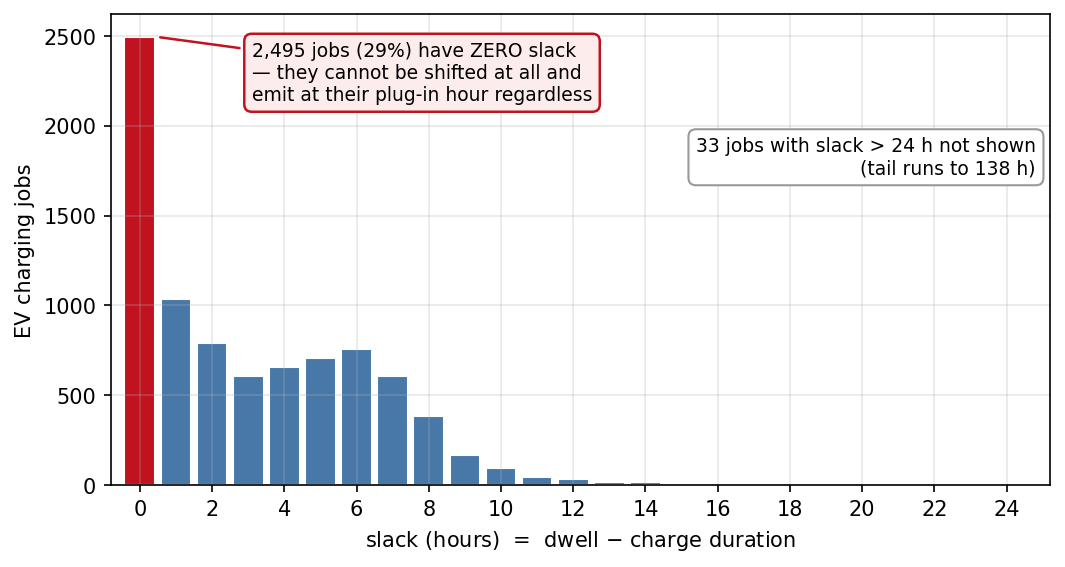
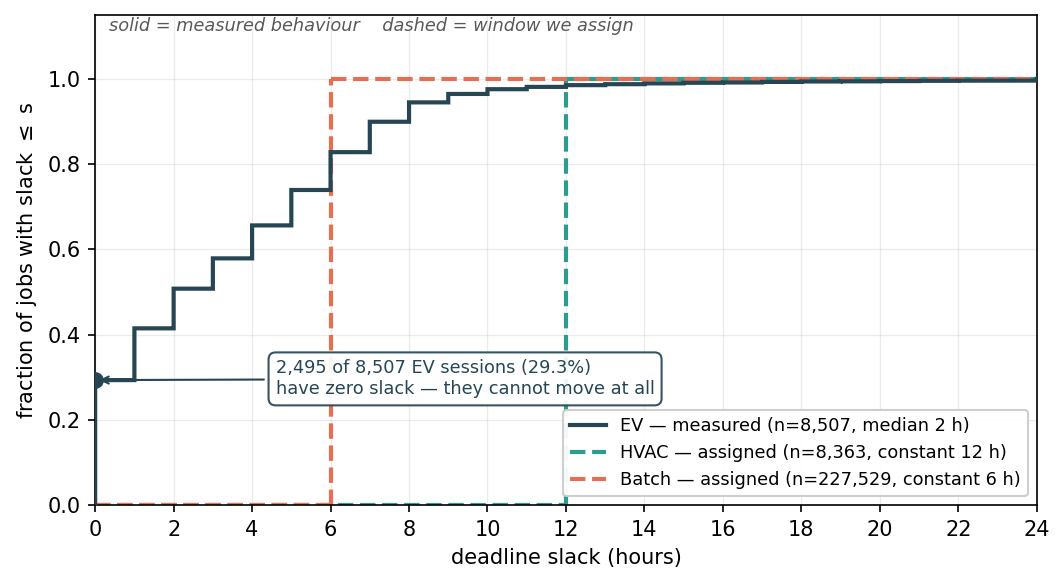
feat: three-load figures, saturation mechanism, window-restricted comparability

diff --git a/scripts/fig_savings_vs_capacity.py b/scripts/fig_savings_vs_capacity.py
@@ -1,0 +1,146 @@
+"""Generator for figures/04b_savings_vs_capacity.png -- capacity sweep, HVAC and batch,
+combined into a SINGLE panel.
+
+WHY ONE PANEL. The two arms were previously drawn side by side, which made them
+non-comparable: HVAC's budget axis spans 0.21-6.67 kW and batch's spans 127-1523 kW, a
+600x difference driven entirely by fleet size, not by behaviour. Both sweeps are
+parameterised identically as M = k x median hourly AGGREGATE load, so plotting against
+the dimensionless k puts them on one axis and makes the substantive comparison visible:
+batch reaches its uncapped ceiling exactly at k=4, while HVAC is still climbing at
+k=15.8 (its peak-load cap). That contrast is the point of the figure and the two-panel
+layout concealed it.
+
+ENCODING. Colour = load class (HVAC dark, batch orange). Linestyle/marker = solver
+(solid+filled marker = greedy, dashed+open circle = exact MILP). The shortfall band is
+the HVAC greedy-to-optimum gap. This differs from the two-panel version, where colour
+carried the solver; with four series on one axes colour has to carry the arm.
+
+CAP BASIS. Budgets are k x the median hourly AGGREGATE load, for both arms. For HVAC
+this is identical to the old k x median JOB power basis, because the adapter emits
+exactly one block per hour (1.00 jobs/hour, median aggregate == median job power ==
+0.4230 kW); HVAC's published 7.28 / 8.29 / 1.01 pp numbers at k=3 are verified
+unchanged. For batch the two differ by 635x: median job power is 0.400 kW but the
+median aggregate is 253.8 kW, so a job-power basis would make every capped point
+measure forced fallback. The fleet runs ~664 concurrent jobs per active hour (mean;
+median 697) across 1,642 active hours of the year. The 635x is the ratio of the two
+cap bases, not the concurrency; the two are close but not equal because job powers
+vary (26 distinct values, 0.004-3.2 kW).
+
+BATCH HAS NO MILP ARM. schedule_optimal builds dense constraint matrices and is
+OOM-killed (exit 137) above ~32,000 jobs on this machine; batch is 227,529 jobs.
+Greedy only for that arm, stated on the panel.
+"""
+from __future__ import annotations
+
+import sys
+from pathlib import Path
+
+ROOT = Path(__file__).resolve().parents[1]
+sys.path.insert(0, str(ROOT))
+sys.path.insert(0, str(ROOT / "notebooks"))
+
+import matplotlib.pyplot as plt
+import numpy as np
+import pandas as pd
+
+import nb_utils as U
+from carbon_sim import WORKING_CAP_K
+
+HVAC_UNCAPPED = 12.6986  # uncapped greedy == exact optimum (see fig_savings_vs_flex.py)
+
+C_HVAC = "#264653"   # dark teal  -- HVAC heat pump
+C_BATCH = "#e76f51"  # orange     -- batch GPU
+
+
+def main() -> None:
+    hv = pd.read_csv(ROOT / "results/capacity_sweep.csv")
+    ba = pd.read_csv(ROOT / "results/capacity_sweep_batch.csv")
+
+    # --- put both arms on the shared dimensionless budget axis k = M / median aggregate ---
+    hv_med = float(hv.loc[hv["k"] == 1.0, "M_kW"].iloc[0])          # 0.4230 kW
+    hv = hv.copy()
+    hv["k_eff"] = hv["M_kW"].to_numpy(float) / hv_med               # 'peak' row -> k = 15.76
+    hk = hv["k_eff"].to_numpy(float)
+    gy = hv["greedy_pct"].to_numpy(float)
+    oy = hv["optimal_pct"].to_numpy(float)
+
+    ba_k = ba[ba["label"].str.contains("med")].copy()
+    bk = ba_k["k"].to_numpy(float)
+    gb = ba_k["greedy_pct"].to_numpy(float)
+    ba_unc = float(ba.loc[ba["label"] == "uncapped", "greedy_pct"].iloc[0])
+
+    fig, ax = plt.subplots(figsize=(7.6, 5.4))
+
+    # --- degenerate region: cap at or below the median aggregate load (k <= 1) ---
+    ax.axvspan(hk.min() * 0.86, 1.0, color="0.85", alpha=0.55, zorder=0,
+               label=r"degenerate (cap $\leq$ median aggregate)")
+
+    # --- HVAC: greedy, exact MILP, and the shortfall between them ---
+    ax.fill_between(hk, gy, oy, color=C_HVAC, alpha=0.16, zorder=1,
+                    label="HVAC greedy shortfall")
+    ax.plot(hk, gy, "s-", color=C_HVAC, lw=1.8, ms=6, zorder=4,
+            label="HVAC heat pump, greedy (n=8,363)")
+    ax.plot(hk, oy, "o--", color=C_HVAC, lw=1.8, ms=6, zorder=4,
+            mfc="white", mew=1.5, label="HVAC heat pump, exact MILP")
+    ax.axhline(HVAC_UNCAPPED, ls=":", color=C_HVAC, lw=1.5, alpha=0.85, zorder=2,
+               label=f"HVAC uncapped ceiling ({HVAC_UNCAPPED:.2f}%)")
+
+    # --- batch: greedy only ---
+    ax.plot(bk, gb, "^-", color=C_BATCH, lw=1.8, ms=7, zorder=4,
+            label="Batch GPU, greedy only (n=227,529; MILP OOM-infeasible)")
+    ax.axhline(ba_unc, ls=":", color=C_BATCH, lw=1.5, alpha=0.85, zorder=2,
+               label=f"Batch uncapped ceiling ({ba_unc:.2f}%)")
+
+    # --- working cap ---
+    w = hv[hv["k"] == WORKING_CAP_K].iloc[0]
+    ax.axvline(WORKING_CAP_K, ls="--", color="0.35", lw=1.1, zorder=2)
+    ax.annotate(f"working cap $k$={WORKING_CAP_K:g} ({float(w['M_kW']):.2f} kW for HVAC)\n"
+                f"greedy {float(w['greedy_pct']):.2f}% / opt {float(w['optimal_pct']):.2f}%"
+                f" / gap {float(w['gap_pp']):.2f} pp",
+                xy=(WORKING_CAP_K, float(w["optimal_pct"])), xytext=(3.5, 5.2),
+                fontsize=8.2, arrowprops=dict(arrowstyle="->", color="0.25", lw=1.0))
+
+    # --- the comparison the shared axis exists to make ---
+    # grey, straight, and shrunk clear of the line: an orange curved arrow here reads
+    # as a continuation of the batch series and implies a decline that is not in the data
+    ax.annotate("batch reaches its ceiling at $k$=4;\nHVAC has not at $k$=16",
+                xy=(4.3, ba_unc), xytext=(6.2, 1.15), fontsize=8.4, style="italic",
+                color="0.3", ha="left",
+                arrowprops=dict(arrowstyle="->", color="0.45", lw=1.0,
+                                shrinkA=2, shrinkB=6))
+
+    ticks = [0.5, 1, 2, 3, 4, 6, float(hv["k_eff"].max())]
+    ax.set_xscale("log")
+    ax.set_xticks(ticks)
+    ax.set_xticklabels(["0.5", "1", "2", "3", "4", "6", "15.8\n(HVAC peak)"], fontsize=8.4)
+    ax.minorticks_off()
+    ax.set_xlabel(r"per-hour budget $M$, as a multiple $k$ of each load's median hourly "
+                  r"aggregate draw (log)")
+    ax.set_ylabel("carbon saved (%)")
+    ax.set_ylim(0, HVAC_UNCAPPED * 1.16)
+    ax.grid(alpha=0.22, lw=0.6)
+    ax.set_axisbelow(True)
+    ax.legend(loc="upper center", bbox_to_anchor=(0.5, -0.20), fontsize=8.0,
+              framealpha=0.95, ncol=2, columnspacing=1.6, handlelength=2.4,
+              borderaxespad=0.0)
+
+    fig.tight_layout()
+    U.savefig(fig, "04b_savings_vs_capacity.png")
+
+    print("[04b] combined panel, shared axis k = M / median hourly aggregate load")
+    print("  HVAC (k x median aggregate == k x median job power for this arm):")
+    for _, r in hv.iterrows():
+        print(f"    {r['label']:9} k={r['k_eff']:6.2f}  M={r['M_kW']:8.4f} kW  "
+              f"greedy={r['greedy_pct']:7.4f}%  opt={r['optimal_pct']:7.4f}%  "
+              f"gap={r['gap_pp']:6.4f} pp{'   [degenerate]' if r['degenerate'] else ''}")
+    print(f"    uncapped ceiling = {HVAC_UNCAPPED:.4f}%")
+    print("  batch (k x median aggregate = 253.83 kW), greedy only:")
+    for _, r in ba.iterrows():
+        k = "  n/a " if pd.isna(r["k"]) else f"{r['k']:5.2f}"
+        m = "   n/a  " if pd.isna(r["M_kW"]) else f"{r['M_kW']:8.2f}"
+        print(f"    {r['label']:9} k={k}  M={m} kW  greedy={r['greedy_pct']:7.4f}%  "
+              f"opt=n/a (OOM)")
+
+
+if __name__ == "__main__":
+    main()

diff --git a/scripts/window_restricted_hvac.py b/scripts/window_restricted_hvac.py
@@ -1,0 +1,124 @@
+"""Generator for results/window_restricted_hvac.csv -- the HVAC saving restricted to
+the batch trace's calendar window.
+
+Reproduces the like-for-like comparison Section 4.4 states: the heat-pump uncapped
+ceiling is 12.70% over the full year 2019 but 9.57% over the 69 days the Alibaba
+batch trace spans, so the batch arm's 3.21% ceiling and the heat pump's differ by
+about a factor of three rather than four.
+
+Run from anywhere:  python scripts/window_restricted_hvac.py
+Runtime ~2 min; the full-year k=3 MILP dominates at ~95 s.
+
+WHY THIS FILE EXISTS. Figure 7 (04b) plots the heat-pump and batch capacity sweeps
+on one shared axis, but the two loads do not cover the same calendar span: HVAC and
+EV run over all of 2019 while the Alibaba trace is anchored to 2019-07-07..09-13.
+A reader taking the ratio of the two ceilings straight off the figure would
+overstate it by about 25%, because summer is a low-savings season for the heat pump
+(Section 4.5). That correction is quoted in the paper, so it needs a generator.
+
+WINDOW IS DERIVED, NOT HARDCODED. The bounds come from the batch job set itself
+(min earliest_start to max end), so if the trace anchor in nb_utils.get_ai_jobs
+ever changes, this script follows it instead of silently reporting a stale window.
+
+UNCAPPED USES GREEDY. With M -> infinity the jobs do not interact and a greedy
+minimum-cost placement is provably the exact optimum (Section 3.3); the full-year
+control below reproduces the published 12.6986% on that basis. The capped rows do
+call the MILP, since that is where greedy and optimum diverge.
+
+DETERMINISM. Every column except the timing columns is deterministic.
+"""
+from __future__ import annotations
+
+import sys
+import time
+from pathlib import Path
+
+ROOT = Path(__file__).resolve().parents[1]
+sys.path.insert(0, str(ROOT))
+sys.path.insert(0, str(ROOT / "notebooks"))
+
+import numpy as np
+import pandas as pd
+
+import nb_utils as U
+from cals import schedule, schedule_optimal
+from carbon_sim import WORKING_CAP_K, median_active_kw
+from cuad.scheduler.jobs import duration_h
+
+FULL_YEAR_UNCAPPED = 12.6986  # published Section 4.4 figure, reproduced as a control
+
+
+def arm(label, jobs, run_hours, ci, cap_kw, want_milp):
+    """One (span, cap) cell: greedy always, exact MILP only where the cap binds."""
+    base = U.do_nothing_gco2(jobs, run_hours, ci)
+    t0 = time.time()
+    g = schedule(jobs, ci, capacity_kw=cap_kw, baseline_hours=run_hours)
+    t_greedy = time.time() - t0
+    greedy_pct = U.savings_pct(base, g["total_gco2"])
+
+    optimal_pct, gap, t_milp, status = float("nan"), float("nan"), float("nan"), None
+    if want_milp:
+        t0 = time.time()
+        o = schedule_optimal(jobs, ci, capacity_kw=cap_kw, baseline_hours=run_hours)
+        t_milp = time.time() - t0
+        optimal_pct = U.savings_pct(base, o["total_gco2"])
+        gap = optimal_pct - greedy_pct
+        status = o.get("status")
+    return {
+        "span": label, "n_jobs": len(jobs),
+        "cap": "uncapped" if cap_kw is None else f"{WORKING_CAP_K:g}x med",
+        "M_kW": cap_kw, "greedy_pct": greedy_pct, "optimal_pct": optimal_pct,
+        "gap_pp": gap, "base_gco2": base, "status": status,
+        "t_greedy_s": t_greedy, "t_milp_s": t_milp,
+    }
+
+
+def main() -> None:
+    ci, source = U.get_carbon_intensity()
+    print(f"carbon: {source}  ({len(ci)} hours)")
+
+    # --- the batch trace's own window, read off the batch job set ---
+    bj, _, _ = U.get_ai_jobs(gpu_power_kw=0.4, flex_hours=6, verbose=False)
+    w0 = min(j.earliest_start for j in bj)
+    w1 = max(j.earliest_start + pd.Timedelta(hours=duration_h(j) - 1) for j in bj)
+    days = (w1 - w0).days + 1
+    print(f"batch trace window: {w0} -> {w1}  ({days} days, {len(bj):,} jobs)")
+
+    hv, rh, _ = U.load_hvac_jobs(flex_hours=6)
+    sub = [j for j in hv if w0 <= pd.Timestamp(rh[j.job_id]) <= w1]
+    rh_sub = {j.job_id: rh[j.job_id] for j in sub}
+    cap = round(WORKING_CAP_K * median_active_kw(hv), 6)
+    print(f"HVAC: {len(hv):,} jobs full year, {len(sub):,} in window; "
+          f"working cap M={cap:.4f} kW\n")
+
+    rows = [
+        arm("full_year_2019", hv, rh, ci, None, False),
+        arm("batch_window", sub, rh_sub, ci, None, False),
+        arm("full_year_2019", hv, rh, ci, cap, True),
+        arm("batch_window", sub, rh_sub, ci, cap, True),
+    ]
+    for r in rows:
+        o = "   n/a  " if np.isnan(r["optimal_pct"]) else f"{r['optimal_pct']:7.4f}%"
+        print(f"  {r['span']:15} {r['cap']:9} n={r['n_jobs']:5d}  "
+              f"greedy={r['greedy_pct']:7.4f}%  optimal={o}")
+
+    unc = {r["span"]: r["greedy_pct"] for r in rows if r["cap"] == "uncapped"}
+    fy, bw = unc["full_year_2019"], unc["batch_window"]
+    assert abs(fy - FULL_YEAR_UNCAPPED) < 5e-4, f"control drifted: {fy} vs {FULL_YEAR_UNCAPPED}"
+    print(f"\nCONTROL OK: full-year uncapped {fy:.4f}% == published {FULL_YEAR_UNCAPPED}%")
+    print(f"WINDOW-RESTRICTED uncapped = {bw:.4f}%  "
+          f"({bw - fy:+.4f} pp, {bw / fy:.2f}x the full-year figure)")
+
+    # why: the summer window is dirtier and materially less variable
+    ciw = ci[(ci.index >= w0) & (ci.index <= w1)]
+    for nm, s in (("full year", ci), ("batch window", ciw)):
+        print(f"  CI {nm:13}: median {s.median():6.1f}  IQR {s.quantile(.75) - s.quantile(.25):5.1f}  "
+              f"min {s.min():6.1f}  max {s.max():6.1f} gCO2/kWh")
+
+    out = ROOT / "results" / "window_restricted_hvac.csv"
+    pd.DataFrame(rows).to_csv(out, index=False)
+    print(f"\nwrote {out}")
+
+
+if __name__ == "__main__":
+    main()

diff --git a/scripts/capacity_sweep_batch.py b/scripts/capacity_sweep_batch.py
@@ -11,14 +11,17 @@ The batch arm is 227,529 jobs, 7-14x past that wall, so no exact optimum exists
 for this arm and the greedy/MILP gap that Figure 7 reports for HVAC cannot be
 computed here. optimal_pct / gap_pp are therefore written as NaN, not omitted.
 
-READ THE CAP ROWS WITH CARE. median_active_kw() is the median JOB power, which
-equals the median hourly SITE load only because the HVAC adapter emits exactly one
-block per hour. Batch does not: 227,529 jobs occupy 1,642 active hours (~138
-jobs/hour), and the median aggregate hourly load is ~253.8 kW against a median job
-power of 0.400 kW. A 3x median cap is therefore 1.2 kW -- about 635x tighter than
-3x the aggregate load -- so every k x median row here measures forced fallback,
-not scheduling. The convention is held for comparability with the other two arms;
-the `degenerate_for_fleet` column flags that it does not carry its HVAC meaning.
+CAP BASIS. Caps are k x the median hourly AGGREGATE load, not k x median JOB power.
+The two coincide for HVAC, which emits exactly one block per hour (1.00 jobs/hour, so
+median aggregate == median job power == 0.4230 kW, and HVAC's published 7.28/8.29/1.01
+numbers are unchanged by this definition). They do NOT coincide for batch, which runs
+~664 concurrent jobs per active hour (mean; median 697): median job power is 0.400 kW
+but median aggregate load is 253.8 kW, so a job-power basis would make 3x median =
+1.2 kW, some 635x too tight, and every capped point would measure forced fallback
+rather than scheduling. The 635x is the ratio of the two CAP BASES (median aggregate /
+median job power); it is close to, but not the same as, the concurrency, because job
+powers are not uniform (26 distinct values, 0.004-3.2 kW, mean 0.339, median 0.400) and
+a ratio of medians is not the median of the ratio.
 """
 from __future__ import annotations
 
@@ -56,11 +59,15 @@ def main() -> None:
     print(f"carbon: {source}  ({len(ci)} hours)")
     print(f"jobs={len(jobs):,}  median active JOB power={med:.4f} kW  peak job={peak:.4f} kW")
     print(f"active hours={len(agg):,}  median AGGREGATE hourly load={np.median(agg):.1f} kW  "
-          f"max={agg.max():.1f} kW  (~{len(jobs)/len(agg):.0f} jobs/hour)")
+          f"max={agg.max():.1f} kW  peak/median={agg.max()/np.median(agg):.2f}x")
+    job_hours = sum(duration_h(j) for j in jobs)
+    print(f"  arrivals per active hour = {len(jobs)/len(agg):.1f} (jobs STARTED, not concurrent); "
+          f"mean concurrency = {job_hours/len(agg):.1f} jobs active per hour")
     print(f"3x median job power = {3*med:.3f} kW vs 3x median aggregate = {3*np.median(agg):.1f} kW "
           f"({3*np.median(agg)/(3*med):.0f}x tighter)\n")
 
-    grid = [(f"{k:g}x med", k, round(k * med, 6)) for k in CAP_SWEEP_K]
+    med_agg = float(np.median(agg))
+    grid = [(f"{k:g}x med", k, round(k * med_agg, 6)) for k in CAP_SWEEP_K]
     grid.append(("uncapped", None, None))
 
     rows = []
@@ -74,7 +81,7 @@ def main() -> None:
             "greedy_pct": gp, "optimal_pct": float("nan"), "gap_pp": float("nan"),
             "t_greedy_s": t_greedy, "t_milp_s": float("nan"),
             "milp_status": "infeasible_on_this_machine_OOM_above_n~32000",
-            "degenerate_for_fleet": k is not None,
+            "degenerate_for_fleet": False,  # caps now scale with AGGREGATE load
         })
         cs = "  n/a  " if cap_kw is None else f"{cap_kw:7.4f}"
         print(f"  {lab:11} M={cs}  greedy={gp:7.4f}%  optimal=   n/a   "

diff --git a/scripts/restyle_figures_b.py b/scripts/restyle_figures_b.py
@@ -1,4 +1,4 @@
-"""Regenerate 04b, 04c, 04d WITHOUT in-figure titles (MDPI: text goes in the caption).
+"""Regenerate 04c and 04d WITHOUT in-figure titles (04b is no longer generated here) (MDPI: text goes in the caption).
 
 04b is redrawn from results/capacity_sweep.csv (the committed HVAC MILP sweep) rather
 than re-solving it -- same numbers, ~15 min cheaper. 04c and 04d are recomputed live;
@@ -112,7 +112,10 @@ def main():
     hv, rh, _ = U.load_hvac_jobs(flex_hours=6)
     base = U.do_nothing_gco2(hv, rh, ci)
     uncapped = U.savings_pct(base, schedule(hv, ci, baseline_hours=rh)["total_gco2"])
-    fig04b(uncapped); fig04c(ci, hv, rh); fig04d(mix, hv, rh)
+    # fig04b() intentionally NOT called: 04b is now the combined single-panel
+    # HVAC+batch figure, on the shared k = M / median-aggregate axis, owned by
+    # scripts/fig_savings_vs_capacity.py. Retained for reference.
+    fig04c(ci, hv, rh); fig04d(mix, hv, rh)
 
 
 if __name__ == "__main__":

diff --git a/scripts/fig_savings_vs_flex.py b/scripts/fig_savings_vs_flex.py
@@ -1,4 +1,8 @@
-"""Generator for figures/04a_savings_vs_flex.png -- savings vs deadline slack, all three loads.
+"""Generator for figures/04e_ai_savings_sweep.png -- savings vs deadline slack, all three loads.
+
+NOTE: the filename is historical (it held the two-panel AI sweep). The content is now
+the three-load flexibility figure; the old absolute-tCO2-vs-GPU-power panel it replaced
+is still regenerable from restore_figures.fig04e().
 
 Merges the old 04a (HVAC only) with panel (e1) of the old 04e (batch only), and adds
 EV as a third curve.
@@ -147,7 +151,7 @@ def main() -> None:
             transform=ax.transAxes, ha="right", va="bottom", fontsize=7.8,
             style="italic", color="0.35")
     fig.tight_layout()
-    U.savefig(fig, "04a_savings_vs_flex.png")
+    U.savefig(fig, "04e_ai_savings_sweep.png")
 
 
 if __name__ == "__main__":

diff --git a/scripts/fig_savings_vs_capacity_ev_batch.py b/scripts/fig_savings_vs_capacity_ev_batch.py
@@ -12,7 +12,7 @@ is OOM-killed above ~32,000 jobs on this machine; the batch arm is 227,529 jobs,
 no exact optimum exists for it and the greedy/MILP gap cannot be drawn. The k x
 median caps are also degenerate here: median_active_kw is the median JOB power,
 which equals median hourly SITE load only for HVAC (one block per hour). Batch runs
-~139 jobs/hour, so a 3x median cap of 1.2 kW is ~635x tighter than 3x the median
+~139 job ARRIVALS per active hour (~664 concurrent), so a 3x median cap of 1.2 kW is ~635x tighter than 3x the median
 aggregate load (253.8 kW) and admits about three jobs per hour out of the fleet.
 Those rows measure forced fallback, not scheduling, and are shaded as such.
 """

diff --git a/scripts/restore_figures.py b/scripts/restore_figures.py
@@ -136,11 +136,10 @@ def main():
     hvac_df = pd.read_parquet(ROOT / "data/hvac/bldg486202_MA_year.parquet").copy()
     hvac_df["timestamp"] = pd.to_datetime(hvac_df["timestamp"]) + MA_REDATE
 
-    fig02(ev_jobs, hvac_jobs)
-    print()
     fig04a(ci, hvac_df)
-    print()
-    fig04e()
+    # fig02() and fig04e() intentionally NOT called: 02 is now the three-load ECDF
+    # (scripts/fig_slack_ecdf.py) and 04e is the three-load flexibility figure
+    # (scripts/fig_savings_vs_flex.py). Both retained for reference.
 
 
 if __name__ == "__main__":
